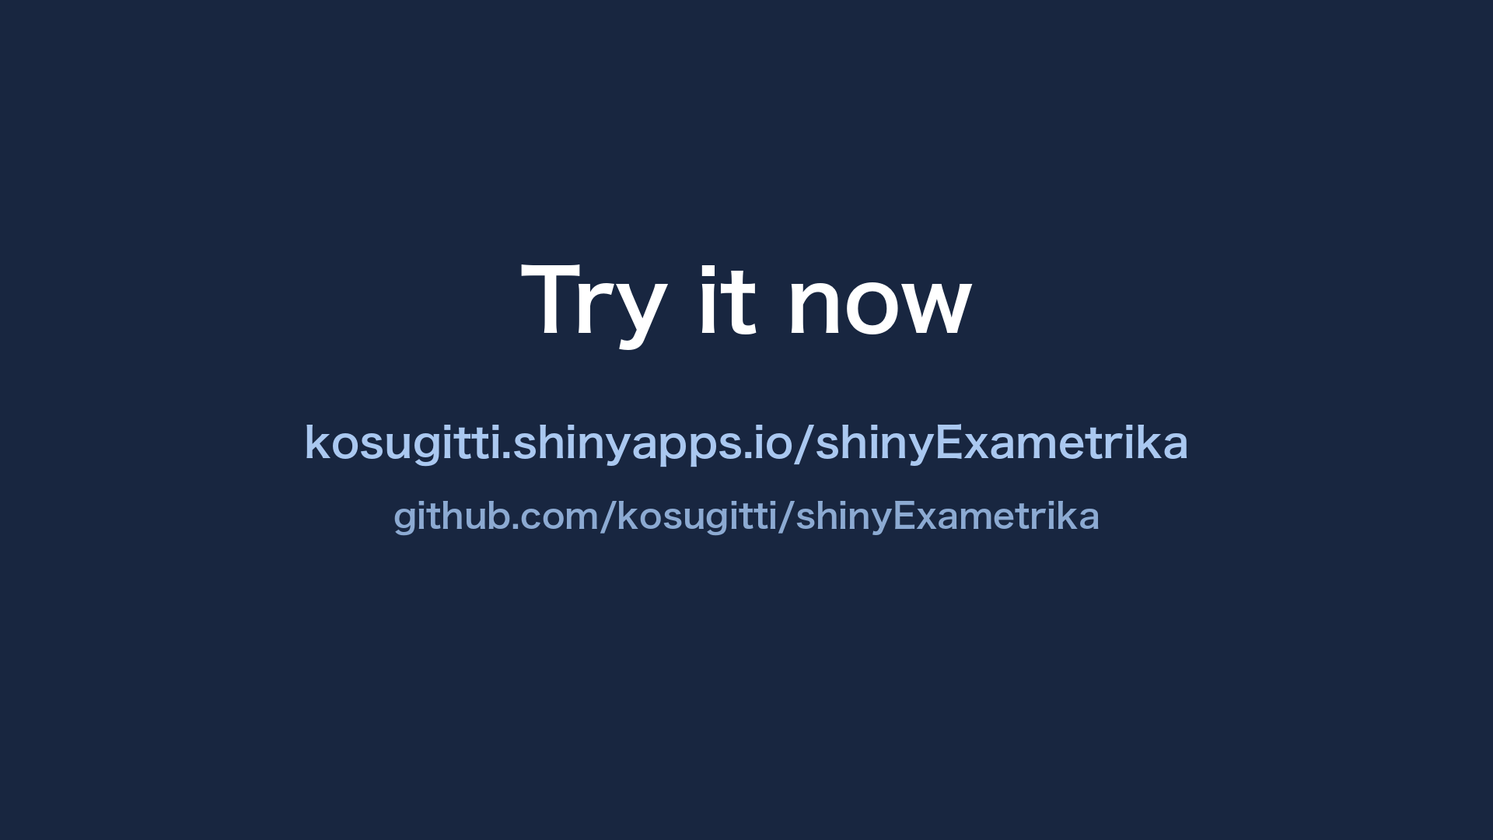
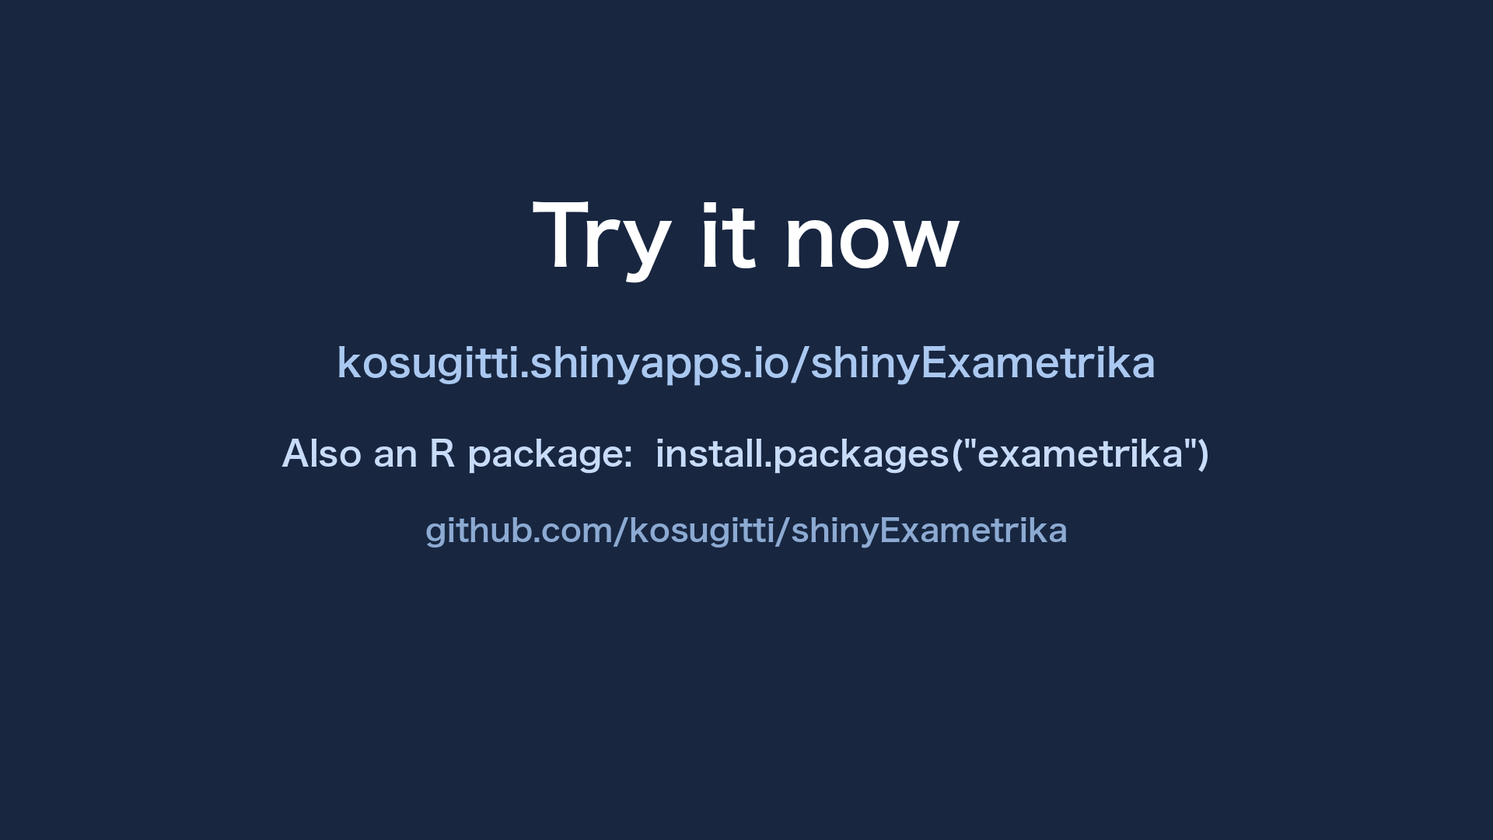
docs(video): JA narration fixes + record-first guide + rated CA demo CSV
- narration_ja: 読み修正(よっつ/じゅうごこうもく/ごひゃくにん/にちデータ/ぼすう)、
  数字前後スペース詰め、整形済みデータタブ確認の一言追加、エンドを R パッケージ
  案内に差し替え。build_video.py: 読み置換マップ追加、シーン間 0.6→1.2秒、
  エンドカードに CRAN 案内
- storyboard を record-first のショットリストに更新
- demo_rated_CA.csv（CA を CSV アップロードで入れるデモ用）

Changed region(s): [[0.2188, 0.2444, 0.7812, 0.4583], [0.1875, 0.4889, 0.8125, 0.6722]]

diff --git a/docs/video/build_video.py b/docs/video/build_video.py
@@ -50,6 +50,12 @@ PRON_MAP_JA = [
     ("exametrika", "エグザメトリカ"),
     ("kosugitti", "コスギッチ"),
     ("shinyapps.io", "シャイニーアップスドットアイオー"),
+    ("4 つ", "よっつ"),
+    ("4つ", "よっつ"),
+    ("500人", "ごひゃくにん"),
+    ("15項目", "じゅうごこうもく"),
+    ("二値", "にち"),
+    ("母数", "ぼすう"),
 ]
 
 
@@ -65,7 +71,7 @@ OPENAI_INSTRUCTIONS = ("Speak like a cheerful, upbeat and friendly tutorial host
                        "Warm, lively, and smooth, with natural phrasing. Not rushed.")
 SAY_VOICE = "Aaron"           # フォールバック用 macOS en_US 男性
 W, H = 1920, 1080
-SCENE_GAP = 0.6              # シーン間の無音(秒)
+SCENE_GAP = 1.2              # シーン間の無音(秒)
 CARD_SEC = 6                 # タイトル/エンドカードの尺(秒)
 
 
@@ -193,13 +199,17 @@ def cmd_audio(lang):
     tg = os.path.join(BASE, f"timing_{lang}.md")
     with open(tg, "w", encoding="utf-8") as f:
         f.write(f"# 録画タイミングガイド ({lang})\n\n")
+        # カードは先頭(0)と末尾(最大番号)。録画はその間のシーンのみ。
+        card_scenes = {0, max(scenes)}
         f.write("narration を再生しながら，各シーンの開始時刻を目安に操作してください。\n")
-        f.write("（シーン 0=タイトル, 8=エンドは録画不要。録画は Scene 1〜7 を通しで。）\n\n")
+        body_scenes = [nn for nn in sorted(scenes) if nn not in card_scenes]
+        f.write(f"（シーン 0=タイトル, {max(scenes)}=エンドは録画不要。"
+                f"録画は Scene {body_scenes[0]}〜{body_scenes[-1]} を通しで。）\n\n")
         f.write("| Scene | 開始(録画基準) | 尺 |\n|---|---|---|\n")
-        # 録画はシーン1から始まる(タイトルカードは後で前置)ので，シーン1を0:00基準に再計算
-        base1 = next((s for (nn, s, d) in timing if nn == 1), 0.0)
+        # 録画は最初の本編シーンから始まる(タイトルカードは後で前置)ので，それを0:00基準に再計算
+        base1 = next((s for (nn, s, d) in timing if nn == body_scenes[0]), 0.0)
         for (nn, s, d) in timing:
-            if nn in (0, 8):
+            if nn in card_scenes:
                 continue
             rel = s - base1
             f.write(f"| {nn} | {int(rel//60)}:{rel%60:04.1f} | {d:.1f}s |\n")
@@ -241,9 +251,10 @@ def cmd_cards():
     # エンド
     img = Image.new("RGB", (W, H), (24, 38, 64))
     d = ImageDraw.Draw(img)
-    _center(d, "Try it now", _font(110), 330, (255, 255, 255))
-    _center(d, "kosugitti.shinyapps.io/shinyExametrika", _font(54), 540, (170, 200, 240))
-    _center(d, "github.com/kosugitti/shinyExametrika", _font(44), 640, (140, 170, 210))
+    _center(d, "Try it now", _font(104), 250, (255, 255, 255))
+    _center(d, "kosugitti.shinyapps.io/shinyExametrika", _font(50), 440, (170, 200, 240))
+    _center(d, 'Also an R package:  install.packages("exametrika")', _font(44), 560, (200, 220, 250))
+    _center(d, "github.com/kosugitti/shinyExametrika", _font(40), 660, (140, 170, 210))
     img.save(os.path.join(CARDS, "end.png"))
     print("cards -> cards/title.png, cards/end.png")
 

diff --git a/docs/video/storyboard.md b/docs/video/storyboard.md
@@ -1,87 +1,78 @@
-# shinyExametrika 使い方動画 — ストーリーボード / 録画ガイド
+# shinyExametrika 使い方動画 — 録画ガイド / ストーリーボード
 
-対象アプリ: https://kosugitti.shinyapps.io/shinyExametrika/
+対象アプリ（最新・本番）: https://kosugitti.shinyapps.io/shinyExametrika/
 
-このファイルは 3 役を兼ねる:
+## 制作方式（record-first）
 
-1. 録画ガイド（先生が画面録画するときの操作手順とシーンごとの目安秒数）
-2. ナレーション台本（日本語 / 英語）
-3. 音声合成の入力元（`build_video.py` がここからシーン台本を読む）
+1. 先生が、この shot list に沿って画面録画する（無音でOK、尺は気にしない）。
+2. 受け取った録画を Claude が見て、実際の画と尺に合わせて日本語ナレーション原稿を書く。
+3. 音声合成（日本語＝VOICEVOX 四国めたん／英語＝OpenAI TTS ash・明るめ口調）。
+4. `build_video.py assemble` でタイトル/エンドカードを前後に付け、ナレーションを重畳して mp4 化。
+5. 日本語版・英語版の2本（英語版は右上トグルで UI を English にして別途録画）。
 
-方針:
+録画: QuickTime（Cmd+Shift+5）、できれば 1920×1080。ブックマークバー・余計なタブは隠す。
+各結果画面で2〜3秒止まると、後でナレーションを乗せやすい。
 
-- 映像トラックは先生が QuickTime 等で画面録画（無音でよい）。
-- 音声トラックは AI 音声合成（日本語 = VOICEVOX，英語 = 別エンジン）で生成。
-- 各シーンの「目安秒数」は合成音声の尺に合わせてある。録画時はこの秒数を目安に操作を進めると後合成が楽。
-- 日本語版・英語版の 2 本を作る。英語版はアプリ右上トグルで UI を English に切り替えて録画する。
-
-録画解像度: 1920×1080（フルHD）推奨。ブラウザはタブ・ブックマークバーを隠してアプリだけ映す。
-
----
-
-## Scene 0 — タイトル（目安 6 秒）
-
-画面: タイトルカード（`build_video.py` が静止画を自動挿入。録画不要）
-
-- JA: shinyExametrika。コードを書かずに，テストデータ分析をブラウザで。
-- EN: shinyExametrika. Test data analysis in your browser — no coding required.
-
-## Scene 1 — アプリを開く / Guide タブ（目安 18 秒）
-
-画面操作: ブラウザでアプリ URL を開く。Guide タブが最初に表示される。上から下へゆっくりスクロールし，4 ステップの説明を見せる。
-
-- JA: これは exametrika パッケージの機能を，ブラウザだけで使える Web アプリ，shinyExametrika です。最初に開く Guide タブに，分析の進め方が 4 ステップでまとまっています。データを読み込み，型を整え，分析を実行し，結果を見る。この流れを順に追っていきましょう。
-- EN: This is shinyExametrika, a web app that brings the exametrika package to your browser. The Guide tab you land on lays out the workflow in four steps: load your data, format it, run an analysis, and view the results. Let's walk through them.
-
-## Scene 2 — データ読み込み（目安 22 秒）
-
-画面操作: Data タブをクリック。左サイドバーの「データソース」で "Use sample data" を選び，ドロップダウンから `J15S500` を選択。右側にデータプレビューが出る。
-
-- JA: まず Data タブです。自分の CSV をアップロードすることもできますが，今回は組み込みのサンプルデータを使います。J15S500，15 項目・500 人の二値データを選びます。右側に読み込んだデータのプレビューが表示されました。
-- EN: First, the Data tab. You can upload your own CSV file, but here we'll use a built-in sample: J15S500, a binary dataset of fifteen items and five hundred examinees. The preview of the loaded data appears on the right.
-
-## Scene 3 — データの整形（目安 18 秒）
-
-画面操作: ID 列のプルダウンと分析変数の選択を見せる（サンプルは自動判定済み）。「Format Data」ボタンをクリック。ナビ左の現データセット表示が `● J15S500 [binary, 15 × 500]` のように赤字で点く。上部の分析タブが有効化（点灯）するのを見せる。
-
-- JA: 次にデータを整えます。ID の列と，分析に使う項目を指定して，Format Data ボタンを押します。すると画面の左上に，今読み込んでいるデータの形が表示されます。同時に，このデータ型に合う分析タブだけが有効になります。二値データなので，二値向けの分析が選べるようになりました。
-- EN: Next we format the data. We tell the app which column is the ID and which items to analyze, then click Format Data. The header now shows the active dataset and its shape, and only the analysis tabs that fit this data type light up. Since this is binary data, the binary-compatible analyses become available.
-
-## Scene 4 — 記述統計（目安 16 秒）
-
-画面操作: Descriptives タブをクリック。実行ボタンを押し，項目ごとの通過率・得点分布などのテーブルとプロットを見せる。
-
-- JA: まずは記述統計です。Descriptives タブで実行すると，項目ごとの通過率や，合計得点の分布が表示されます。データの素性をここで掴みます。
-- EN: Let's start with descriptive statistics. The Descriptives tab shows each item's pass rate and the distribution of total scores — a quick feel for the data.
-
-## Scene 5 — 項目応答理論（IRT）（目安 26 秒）
-
-画面操作: IRT タブをクリック。サイドバーでモデル（2PL など）を選び，パラメータの ? ツールチップに軽く触れる。実行ボタンを押す。適合度指標テーブル → 項目パラメータ（識別力・困難度）テーブル → 項目特性曲線（ICC）プロットの順に見せる。Download Plot ボタンも指す。
-
-- JA: 本格的な分析の例として，項目応答理論を見てみましょう。IRT タブでモデルを選びます。各パラメータには，ハテナマークにカーソルを合わせると説明が出ます。実行すると，モデルの適合度，項目ごとの識別力と困難度，そして項目特性曲線が描かれます。曲線が右にあるほど難しい項目です。プロットやテーブルはボタンからダウンロードできます。
-- EN: For a fuller analysis, let's look at item response theory. In the IRT tab we choose a model. Hovering the question mark next to each parameter shows an explanation. Running it gives the model fit, each item's discrimination and difficulty, and the item characteristic curves. Curves further to the right mark harder items. You can download any plot or table with the buttons provided.
-
-## Scene 6 — もう一つのモデル（Biclustering）（目安 20 秒）
-
-画面操作: Biclustering タブをクリック。クラス数・フィールド数を設定して実行。array plot（並べ替えられたヒートマップ）を見せる。
-
-- JA: shinyExametrika には他にも，潜在クラス分析やバイクラスタリングなど，多くのモデルが揃っています。例えばバイクラスタリングでは，受験者と項目を同時にグループ分けし，並べ替えた反応パターンをヒートマップで可視化できます。
-- EN: shinyExametrika offers many more models, from latent class analysis to biclustering. Biclustering, for instance, groups examinees and items at the same time and visualizes the reordered response pattern as a heatmap.
-
-## Scene 7 — 言語切替・まとめ（目安 16 秒）
-
-画面操作: 右上の EN / JA トグルを切り替えて UI 言語が変わるのを見せる。Guide タブに戻る。
-
-- JA: 画面右上のトグルで，日本語と英語をいつでも切り替えられます。コードを書かずに，アップロードして，ボタンを押すだけ。shinyExametrika で，テストデータ分析を始めてみてください。
-- EN: The toggle in the top right switches between English and Japanese at any time. No code — just upload your data and click. Give shinyExametrika a try for your own test data analysis.
-
-## Scene 8 — エンドカード（目安 6 秒）
-
-画面: エンドカード（静止画。URL と GitHub を表示。録画不要）
-
-- JA: shinyExametrika。kosugitti.shinyapps.io/shinyExametrika
-- EN: shinyExametrika. kosugitti.shinyapps.io/shinyExametrika
+デモ用データ（ローカルからアップロードする）: `docs/video/demo_data/`
+- `demo_binary.csv`（ID, Group, Item01–10, 一部 99 欠測）
+- `demo_ordinal.csv`（ID, Group, Q01–08, 1–5）
+- `demo_nominal.csv`（ID, Group, V01–06, 1–4）
+- `demo_rated.csv`（ID, Group, Item01–08, 多肢選択1–4）＋ 正答キー `demo_rated_CA.txt`（CA欄に入力）
 
 ---
 
-合計目安: 約 2 分 50 秒（タイトル・エンドカード込み）。
+## Shot list
+
+### S1. タイトル（カード・録画不要）
+Claude が静止画を前置。
+
+### S2. サイトを開く / Guide をなめる
+- ブラウザでアプリ URL を開く。最初に出る Guide タブを上から下へゆっくりスクロール。
+- 4ステップ（Load → Format → Run → Results）が書いてあるのを見せる。
+- ナレーション意図: 「使い方はこの表紙ページに全部書いてあります」。
+
+### S3. まずサンプルデータでひと回し（軽く）
+- Data タブ → データソース「サンプル」→ `J15S500` を選択 → プレビュー表示。
+- ナレーション意図: 「すぐ試すなら組み込みサンプルが使えます」。
+
+### S4. dataFormat を丁寧に（ローカルCSVのアップロード）★ここが主役
+binary を例に、設定の各項目を順に見せる:
+- データソース「アップロード」→ `demo_binary.csv` を選ぶ。
+- ID列 = ID を選ぶ。分析変数から余分な `Group` 列を外す（ID/グループ列の除外を実演）。
+- 欠測値コードに `99` を入れる。
+- Response Type は Auto-detect のまま（自動判定を見せる）。
+- Format Data → 左上に `● demo_binary [binary, ...]`、タブ点灯。
+- ナレーション意図: 「ID・分析する列・欠測の指定。型は自動判定」。
+
+### S5. 4つの回答タイプを順に
+- ordinal: `demo_ordinal.csv` をアップ → Group 除外 → Format（型 = ordinal）。
+- nominal: `demo_nominal.csv` → Format（型 = nominal）。
+- rated: `demo_rated.csv` → Response Type で「Rated」を選ぶ → 「正答キー（CA）」欄に
+  `demo_rated_CA.txt` の並び（例 1, 2, 1, 1, 4, 3, 4, 1）を入力 → Format（型 = rated）。
+- ナレーション意図: 「二値・順序・名義・採点（正答つき）に対応」。
+
+### S6. 分析を実行（IRT）
+- binary データに戻す（再アップ or サンプル J15S500）→ IRT タブ → モデル選択 → Run。
+- 適合度・項目母数・被験者母数のテーブル、Plots で ICC を見せる（?ツールチップに触れても良い）。
+
+### S7. 出力（今回の新機能）
+- IRT 実行後、左サイドバー Run の下の出力ボタン群を見せる。
+- 「分析結果を一括（Excel）」を押してダウンロード（複数シートの xlsx）。
+- 「Rスクリプト」を押してダウンロード（操作を再現する R スクリプト）。
+- ナレーション意図: 「結果はCSV／Excel一括で保存でき、操作を再現するRスクリプトも出せます」。
+
+### S8. もう一つのモデル（Biclustering）
+- Biclustering タブ → クラス数・フィールド数 → Run → array ヒートマップ。
+
+### S9. 言語切替
+- 右上 EN/JA トグルを切り替え、UI が切り替わるのを見せる。
+
+### S10. エンドカード（録画不要）
+Claude が静止画を後置（URL・GitHub）。
+
+---
+
+## 旧・参考ナレーション（draft）
+
+S2以前の版で書いた `narration_{ja,en}.md` は下書き。最終原稿は録画を見てから
+画に合わせて書き直す。

diff --git a/docs/video/narration_ja.md b/docs/video/narration_ja.md
@@ -1,43 +1,64 @@
-# narration_ja — 日本語ナレーション（シーンごとに1ブロック）
+# narration_ja — 日本語ナレーション（確定稿・シーンごとに1ブロック）
 
-build_video.py がパースする。`## N` 見出しでシーン開始，以下の行がそのシーンの
-ナレーション本文。空行とこのヘッダ説明は無視される。
+build_video.py がパースする。`## N` 見出しでシーン開始。0=タイトルカード,
+9=エンドカード（録画不要）。固有名詞の読みは build_video.py の置換マップが処理
+（shinyExametrika→シャイニーエグザメトリカ, kosugitti→コスギッチ 等）。
 
 ## 0
 shinyExametrika。コードを書かずに，テストデータ分析をブラウザで。
 
 ## 1
-これは exametrika パッケージの機能を，ブラウザだけで使える Web アプリ，shinyExametrika です。
-最初に開く Guide タブに，分析の進め方が 4 ステップでまとまっています。
-データを読み込み，型を整え，分析を実行し，結果を見る。この流れを順に追っていきましょう。
+これは，exametrika パッケージの機能を，ブラウザだけで使える Web アプリ，shinyExametrika です。
+最初に開くこのページに，使い方が4つのステップでまとめてあります。
+データを読み込み，型を整え，分析を実行し，結果を見る。
+やり方はここに書いてありますので，まずはこの流れに沿って進めていきましょう。
 
 ## 2
-まず Data タブです。自分の CSV をアップロードすることもできますが，今回は組み込みのサンプルデータを使います。
-J15S500，15 項目・500 人の二値データを選びます。
-右側に，読み込んだデータのプレビューが表示されました。
+すぐに試したいときは，組み込みのサンプルデータが使えます。
+Data タブを開いて，データソースでサンプルを選び，15項目・500人の二値データを読み込みます。
+右側に，データのプレビューが表示されました。
 
 ## 3
-次にデータを整えます。ID の列と，分析に使う項目を指定して，Format Data ボタンを押します。
-すると画面の左上に，今読み込んでいるデータの形が表示されます。
-同時に，このデータ型に合う分析タブだけが有効になります。二値データなので，二値向けの分析が選べるようになりました。
+実際の分析では，自分の CSV ファイルを読み込みます。ここが大事なところなので，丁寧に見ていきましょう。
+データソースをアップロードに切り替えて，手元のファイルを選びます。
+読み込んだら，まず，どの列が受験者の ID かを指定します。
+次に，分析に使う列を選びます。ID やグループのような，分析に使わない余分な列は，ここで外しておきます。
+未回答を表す数字があれば，欠測値コードに入力します。今回は99です。
+回答のタイプは，自動判定のままにしておきます。
+Format Data を押すと，データが整形され，画面の左上に，今読み込んでいるデータの形が表示されます。二値データ，と判定されました。
+正しく読み込まれているかどうかは，整形済みデータのタブで確認しましょう。
 
 ## 4
-まずは記述統計です。Descriptives タブで実行すると，項目ごとの通過率や，合計得点の分布が表示されます。
-データの素性を，ここで掴みます。
+shinyExametrika は，4つの回答タイプに対応しています。
+二値のほか，5段階評定のような順序データ，順序のない名義データ，そして採点データです。
+採点データのときは，回答のタイプで Rated を選ぶと，正答キーの入力欄が出てきます。
+各項目の正しい選択肢を，項目の順番にカンマ区切りで入力します。
+このように，データの性質に合わせて読み込めます。
 
 ## 5
-本格的な分析の例として，項目応答理論を見てみましょう。IRT タブでモデルを選びます。
+データが準備できると，それに合う分析タブが選べるようになります。
+例として，項目応答理論をやってみましょう。IRT タブでモデルを選び，実行します。
 各パラメータは，はてなマークにカーソルを合わせると説明が出ます。
-実行すると，モデルの適合度，項目ごとの識別力と困難度，そして項目特性曲線が描かれます。
-曲線が右にあるほど難しい項目です。プロットやテーブルは，ボタンからダウンロードできます。
+実行すると，モデルの適合度，項目ごとの識別力と困難度，そして被験者の能力値が表示されます。
+プロットのタブでは，項目特性曲線が描かれます。曲線が右にあるほど，難しい項目です。
 
 ## 6
-shinyExametrika には他にも，潜在クラス分析やバイクラスタリングなど，多くのモデルが揃っています。
-例えばバイクラスタリングでは，受験者と項目を同時にグループ分けし，並べ替えた反応パターンをヒートマップで可視化できます。
+結果は，すべて保存できます。
+左のサイドバー，実行ボタンの下に，出力のボタンがまとまっています。
+適合度・項目母数・被験者母数を，それぞれ CSV で。
+あるいは，分析結果を一括で，複数シートの Excel ファイルとして保存できます。
+さらに，R スクリプトのボタンを押すと，今のセッションでおこなった操作を再現する，R のスクリプトが手に入ります。
+画面で試して，コードで再現する。そんな使い方ができます。
 
 ## 7
-画面右上のトグルで，日本語と英語を，いつでも切り替えられます。
-コードを書かずに，アップロードして，ボタンを押すだけ。shinyExametrika で，テストデータ分析を始めてみてください。
+ほかにも，潜在クラス分析やバイクラスタリングなど，多くのモデルが揃っています。
+たとえばバイクラスタリングでは，受験者と項目を同時にグループ分けして，
+並べ替えた反応パターンを，ヒートマップで見ることができます。
 
 ## 8
-shinyExametrika。コスギッティ ドット シニーアップス ドット アイオー，スラッシュ シニーエグザメトリカ。
+画面右上のトグルで，日本語と英語を，いつでも切り替えられます。
+コードを書かずに，アップロードして，ボタンを押すだけ。
+shinyExametrika で，テストデータ分析を始めてみてください。
+
+## 9
+exametrika は，R のパッケージとしても公開されています。R からも，ぜひ使ってみてください。

diff --git a/docs/video/timing_ja.md b/docs/video/timing_ja.md
@@ -1,14 +1,15 @@
 # 録画タイミングガイド (ja)
 
 narration を再生しながら，各シーンの開始時刻を目安に操作してください。
-（シーン 0=タイトル, 8=エンドは録画不要。録画は Scene 1〜7 を通しで。）
+（シーン 0=タイトル, 9=エンドは録画不要。録画は Scene 1〜8 を通しで。）
 
 | Scene | 開始(録画基準) | 尺 |
 |---|---|---|
-| 1 | 0:00.0 | 24.8s |
-| 2 | 0:25.4 | 19.7s |
-| 3 | 0:45.8 | 22.3s |
-| 4 | 1:08.6 | 12.0s |
-| 5 | 1:21.3 | 27.1s |
-| 6 | 1:49.0 | 16.6s |
-| 7 | 2:06.2 | 14.6s |
+| 1 | 0:00.0 | 25.4s |
+| 2 | 0:26.6 | 15.5s |
+| 3 | 0:43.3 | 55.1s |
+| 4 | 1:39.7 | 29.2s |
+| 5 | 2:10.1 | 32.5s |
+| 6 | 2:43.7 | 35.1s |
+| 7 | 3:20.1 | 15.2s |
+| 8 | 3:36.5 | 14.6s |
